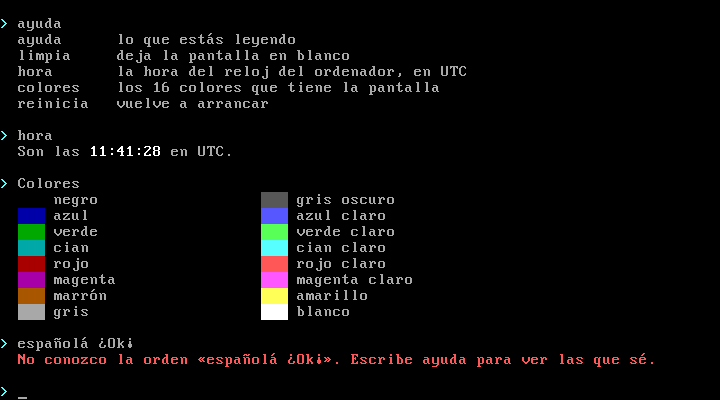
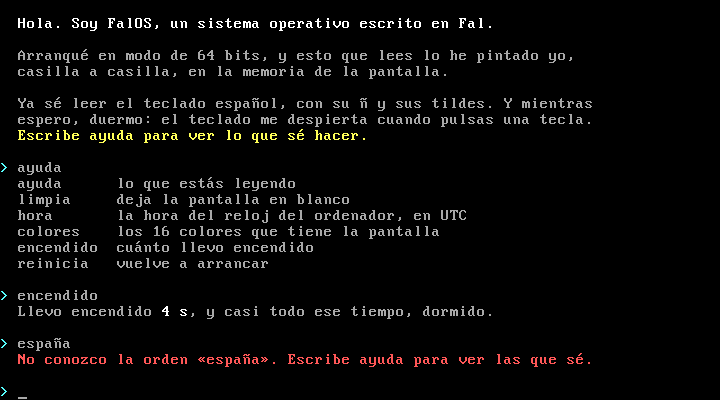
FalOS duerme mientras espera: el teclado y el reloj avisan por interrupciones

diff --git a/DIARIO.md b/DIARIO.md
@@ -2,7 +2,7 @@
 
 Un día, un paso. Lo más nuevo, arriba.
 
-## Día 1: arrancar, escribir en la pantalla y leer el teclado
+## Día 1: arrancar, escribir en la pantalla, leer el teclado y dormir
 
 ![FalOS al arrancar](capturas/dia-1.png)
 
@@ -19,6 +19,7 @@ la ç y la tecla de la tilde: ´ y después a da á. Y lo que escribes hace algo
 - `limpia`: deja la pantalla en blanco.
 - `hora`: la hora del reloj del ordenador.
 - `colores`: los 16 colores de la pantalla.
+- `encendido`: cuánto lleva encendido.
 - `reinicia`: vuelve a arrancar.
 
 **Lo que se aprende.** En modo texto la pantalla no es un aparato al que se
@@ -42,7 +43,27 @@ de IBM, de 1981, donde ocupa uno. Hay que traducir letra a letra, y la 437
 no tiene mayúsculas con tilde salvo la É. Y en el teclado la tilde no es una
 letra: es una tecla que no escribe nada y cambia la siguiente.
 
-**Lo que falta.** FalOS espera las teclas preguntando sin parar si ha llegado
-alguna, y eso gasta un procesador entero en esperar. Lo bueno es que el
-teclado avise él: una interrupción. Tampoco está AltGr, así que todavía no
-hay @ ni #.
+**Y luego, a dormir.** La primera versión esperaba las teclas preguntando sin
+parar si había llegado alguna, y eso tenía un núcleo del procesador al 99 %
+sin hacer nada. Ahora el teclado avisa él: una interrupción. FalOS duerme, y
+cuando pulsas una tecla el procesador lo despierta, apunta la tecla y vuelve
+a dormir. Lo mismo el reloj, cien veces por segundo, que es de donde sale
+`encendido`.
+
+Medido con QEMU parado 8 segundos sin tocar nada: **del 99 % al 2 %** de un
+núcleo.
+
+Para esto Fal ha tenido que aprender a atender interrupciones: una función
+normal de Fal se pone a atender una, y el compilador le añade lo que guarda y
+devuelve los registros para que el programa interrumpido no note nada.
+
+**Lo que costó.** Al encender, el controlador de interrupciones manda las de
+los aparatos a los números 8 a 15, que son los mismos que usa el procesador
+para sus propias excepciones. Si activas las interrupciones sin moverlas, el
+primer tic del reloj parece un "fallo doble" del procesador. Hay que
+remapearlo antes, a partir del 32. Y otra trampa: entre mirar si hay teclas
+y dormirse, puede llegar una justo en medio, y entonces el sistema se queda
+dormido con una tecla esperando. Se evita cerrando las interrupciones antes
+de mirar y abriéndolas en la misma instrucción que duerme.
+
+**Lo que falta.** Todavía no está AltGr, así que no hay @ ni #.

diff --git a/README.md b/README.md
@@ -40,7 +40,9 @@ cada día está en el [diario](DIARIO.md).
 
 Hoy FalOS arranca, pasa al modo de 64 bits, escribe en la pantalla con
 colores y tildes, lee el teclado español y entiende unas pocas órdenes:
-`ayuda`, `limpia`, `hora`, `colores` y `reinicia`. Cada vez que se sube algo,
+`ayuda`, `limpia`, `hora`, `colores`, `encendido` y `reinicia`. El teclado y
+el reloj avisan por interrupciones, así que mientras espera, el procesador
+duerme. Cada vez que se sube algo,
 GitHub lo arranca en QEMU y comprueba que llega a esperar órdenes sin
 reventar.
 
@@ -53,9 +55,7 @@ ha dado expresamente.
 
 - **Casi todo, de momento.** No hay memoria que pedir, ni programas, ni
   disco, ni red. Es el día 1.
-- **El teclado se lee preguntando sin parar**, y eso gasta un procesador
-  entero mientras espera. Falta que el teclado avise con una interrupción.
-  Tampoco hay AltGr, así que no se pueden escribir @ ni #.
+- **Sin AltGr**, así que no se pueden escribir @ ni #.
 - **No es seguro todavía.** Está diseñado para el aislamiento, que no es lo
   mismo. Un sistema es seguro cuando alguien de fuera intenta romperlo y no
   puede, y eso aquí aún no ha pasado. No lo uses para nada que importe.
